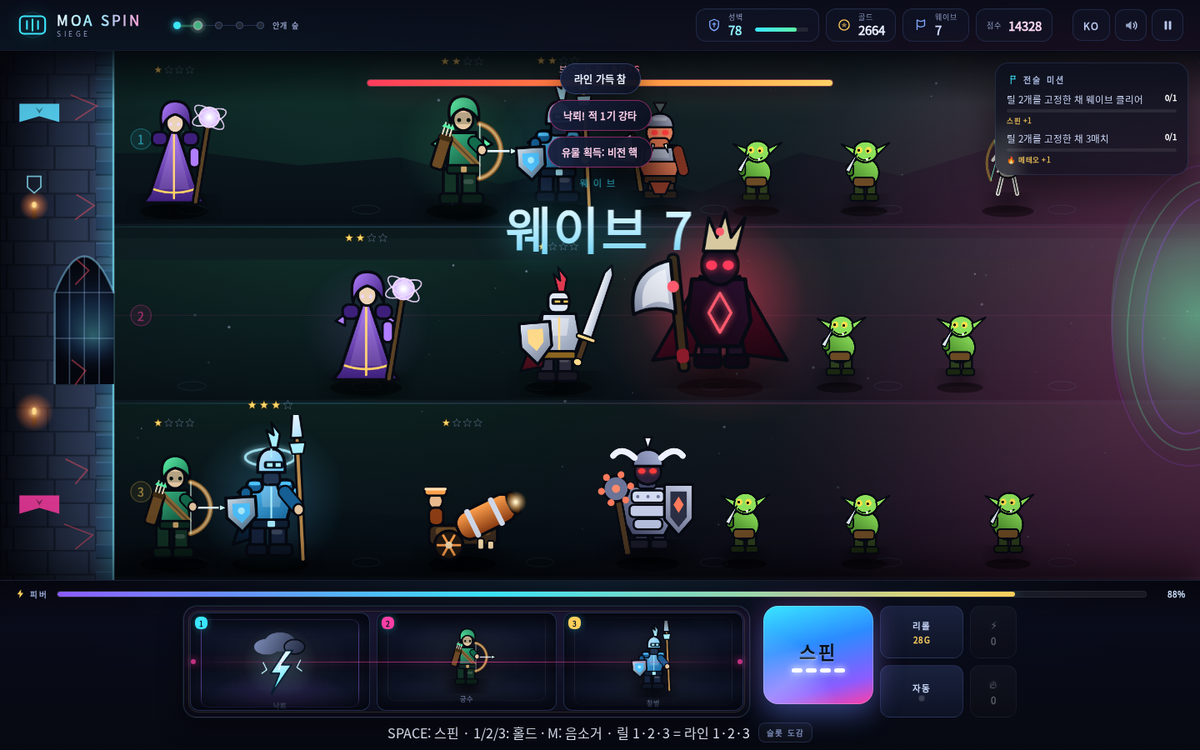
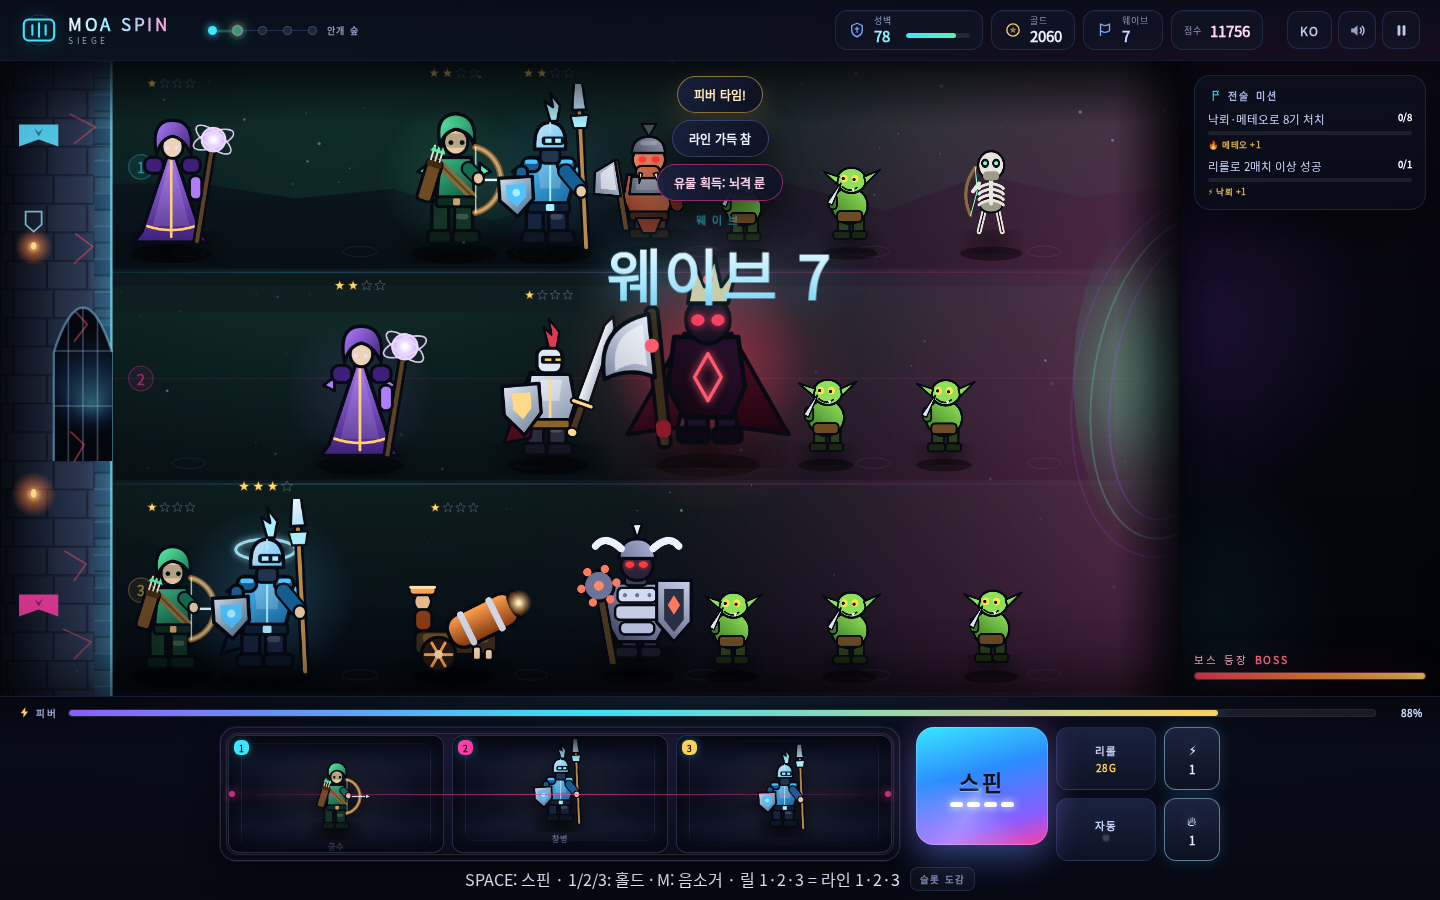
docs: v1.3.1 screenshots (rail, codex click, ordnance, mobile controls) and refreshed delivery shots

diff --git a/README.md b/README.md
@@ -224,6 +224,8 @@ python3 test/balance.py     # 헤드리스 밸런스 시뮬레이션 (dumb vs sm
 - `screenshots/slot-defense-desktop.png` (1440×900)
 - `screenshots/slot-defense-mobile.png` (390×844)
 - `screenshots/slot-defense-menu.png` (타이틀)
+- `screenshots/moa-spin-siege-v131-codex.png` (하단 슬롯 도감 클릭 → 모달·웨이브 정지)
+- `screenshots/moa-spin-siege-v131-ordnance.png` (⚡ 즉시 발동) · `moa-spin-siege-v131-mobile.png` (모바일 하단 컨트롤)
 - `screenshots/moa-spin-siege-v2-desktop.png` · `moa-spin-siege-v2-mobile.png` (v1.1 타격 연출)
 - `screenshots/moa-spin-siege-v2-guide.png` · `moa-spin-siege-v2-mobile-guide.png` (초보자 가이드)
 
